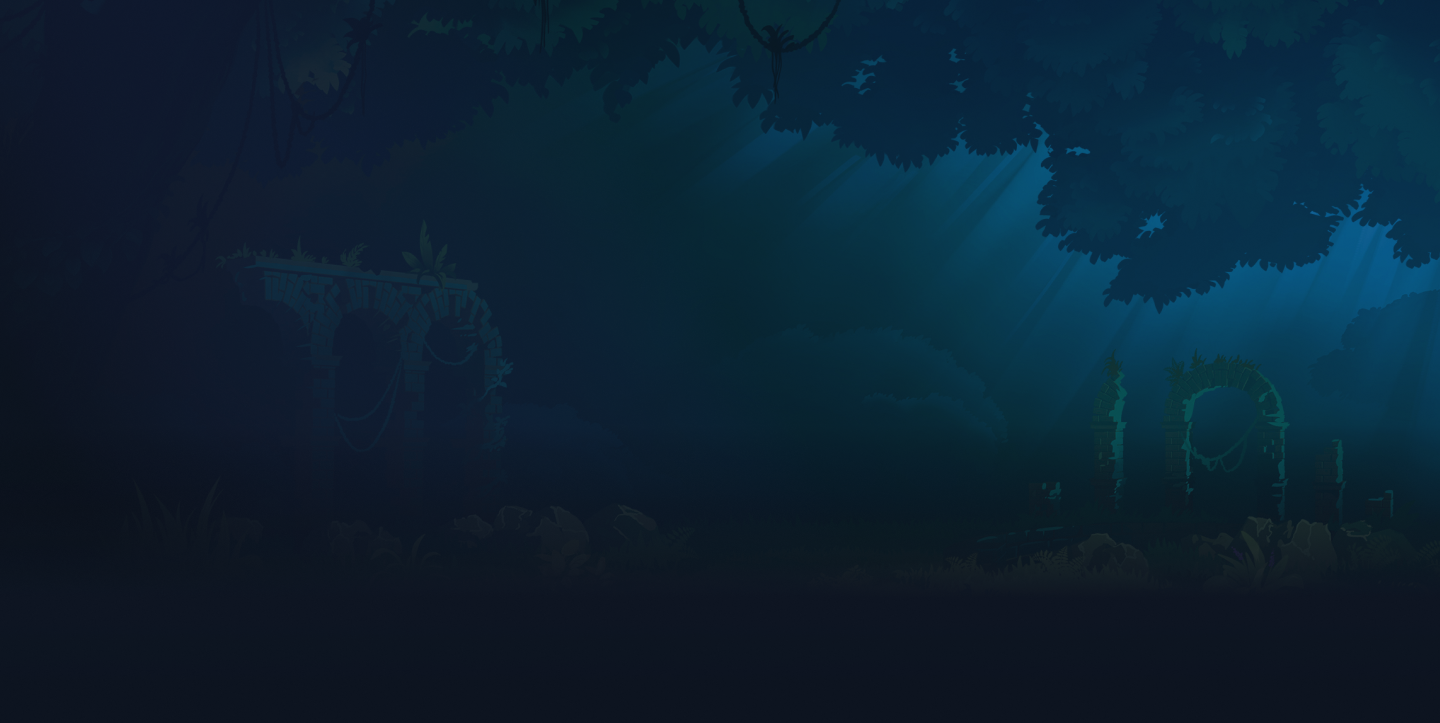
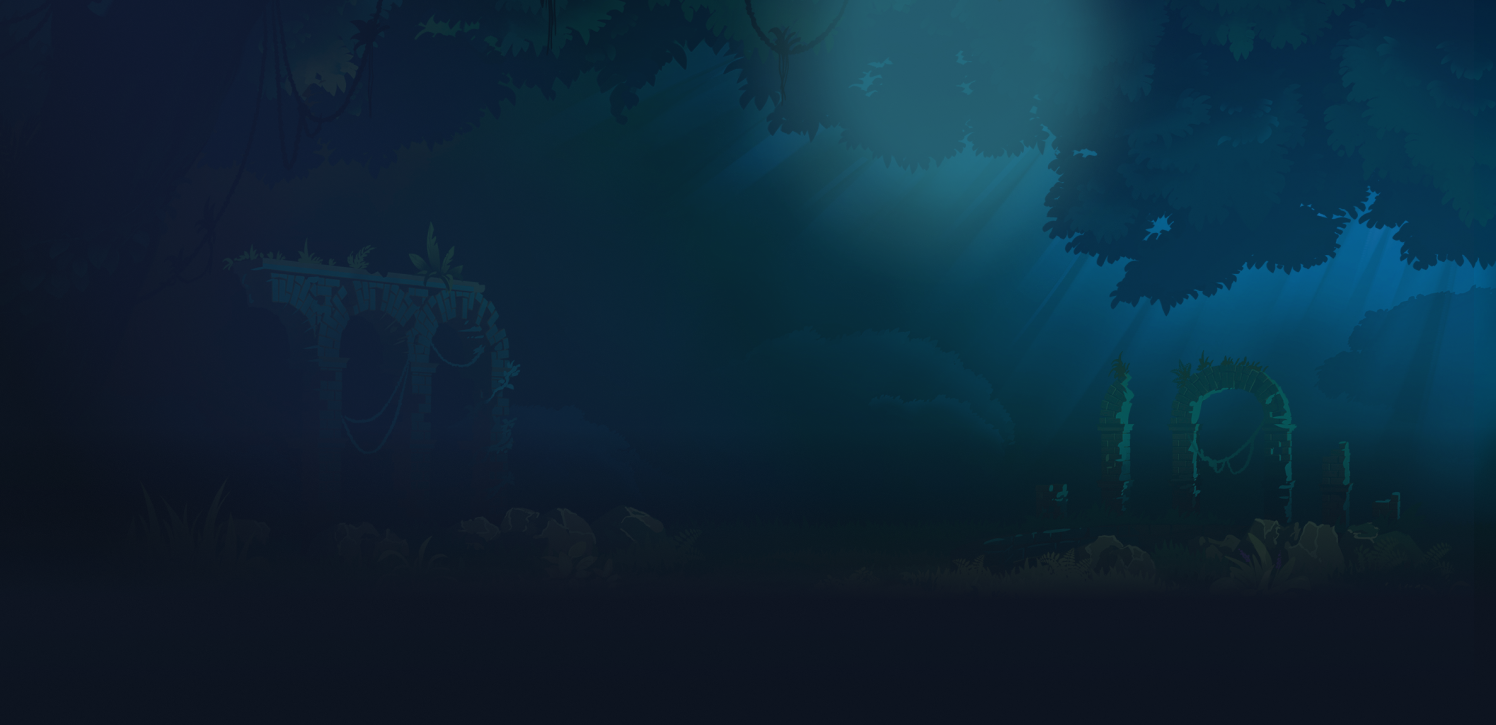
fix: new front page images

diff --git a/src/components/sections/MainInfo/MainInfo.tsx b/src/components/sections/MainInfo/MainInfo.tsx
@@ -28,42 +28,42 @@ const MainInfo = () => {
 
           </div>
         </div>
-        <div className={styles.image + " flex h-full relative justify-center self-center items-center pointer-events-none"}>
-          {/* <div className="relative mt-16 z-1 -top-12 -right-20">
+        <div className={styles.image + "px-28 md:px-0 flex mb-14 h-full relative justify-center self-center items-center pointer-events-none"}>
+          <div className="relative z-1 -mr-20 sm:-mr-28 -mt-12 md:-mt-24 flex justify-center">
             <picture  >
-              <source media="(max-width: 768px)" srcSet="/main/sagittariusM.png" />
-              <source media="(min-width: 769px)" srcSet="/main/sagittarius.png" />
-              <img src="/main/sagittarius.png" className="animate-levitate absolute" />
+              <source media="(max-width: 768px)" srcSet="/main/character2M.png" />
+              <source media="(min-width: 769px)" srcSet="/main/character2.png" />
+              <img src="/main/character2.png" className="animate-levitate absolute mx-auto right-0 left-0 my-auto -top-2 bottom-0" />
             </picture>
             <picture  >
-              <source media="(max-width: 768px)" srcSet="/main/sagittarius-backM.png" />
-              <source media="(min-width: 769px)" srcSet="/main/sagittarius-back.png" />
-              <img src="/main/sagittarius-back.png" />
-            </picture>
-          </div> */}
-          <div className="relative ml-12 mt-16" style={{ zIndex: 2 }}>
-            <picture  >
-              <source media="(max-width: 768px)" srcSet="/main/magmaM.png" />
-              <source media="(min-width: 769px)" srcSet="/main/magma.png" />
-              <img src="/main/magma.png"
-                className="animate-levitate3 absolute -top-8 sm:-top-16" />
-            </picture>
-            <picture>
-              <source media="(max-width: 768px)" srcSet="/main/magma-backM.png" />
-              <source media="(min-width: 769px)" srcSet="/main/magma-back.png" />
-              <img src="/main/magma-back.png" />
+              <source media="(max-width: 768px)" srcSet="/main/secondaryBackM.png" />
+              <source media="(min-width: 769px)" srcSet="/main/secondaryBack.png" />
+              <img src="/main/secondaryBack.png" />
             </picture>
           </div>
-          <div className="relative  mt-16 z-1 -top-10 -left-12 sm:-left-20">
+          <div className="relative -mt-2 sm:-mt-14 flex justify-center" style={{ zIndex: 2 }}>
+            <picture >
+              <source media="(max-width: 768px)" srcSet="/main/character1M.png" />
+              <source media="(min-width: 769px)" srcSet="/main/character1.png" />
+              <img src="/main/character1.png"
+                className="animate-levitate3 absolute mx-auto right-0 left-0 my-auto -top-2 sm:-top-4 bottom-0" />
+            </picture>
+            <picture>
+              <source media="(max-width: 768px)" srcSet="/main/primaryBackM.png" />
+              <source media="(min-width: 769px)" srcSet="/main/primaryBack.png" />
+              <img src="/main/primaryBack.png" />
+            </picture>
+          </div>
+          <div className="relative -ml-20 sm:-ml-28 z-1 -mt-12 md:-mt-24 flex justify-center">
             <picture  >
-              <source media="(max-width: 768px)" srcSet="/main/fatherM.png" />
-              <source media="(min-width: 769px)" srcSet="/main/father.png" />
-              <img src="/main/father.png" className="animate-levitate2 absolute -top-16 left-2 sm:-top-12 sm:left-12 lg:-top-20 lg:left-2 xl:-top-16 xl:left-6" style={{ maxHeight: 250 }} />
+              <source media="(max-width: 768px)" srcSet="/main/character3M.png" />
+              <source media="(min-width: 769px)" srcSet="/main/character3.png" />
+              <img src="/main/character3.png" className="animate-levitate2 absolute mx-auto right-0 left-0 my-auto -top-6 sm:top-0 bottom-0" style={{ maxHeight: 250 }} />
             </picture>
             <picture  >
-              <source media="(max-width: 768px)" srcSet="/main/sagittarius-backM.png" />
-              <source media="(min-width: 769px)" srcSet="/main/sagittarius-back.png" />
-              <img src="/main/sagittarius-back.png" />
+              <source media="(max-width: 768px)" srcSet="/main/secondaryBackM.png" />
+              <source media="(min-width: 769px)" srcSet="/main/secondaryBack.png" />
+              <img src="/main/secondaryBack.png" />
             </picture>
           </div>
         </div>

diff --git a/src/components/sections/MainInfo/styles.module.css b/src/components/sections/MainInfo/styles.module.css
@@ -4,12 +4,6 @@
 .image {
     width: 120%;
 }
-
-@media (min-width: 768px) {
-    .image {
-        width: 100%;
-    }
-}
 @media (min-width: 1024px) {
     .text {
         width: 45%
